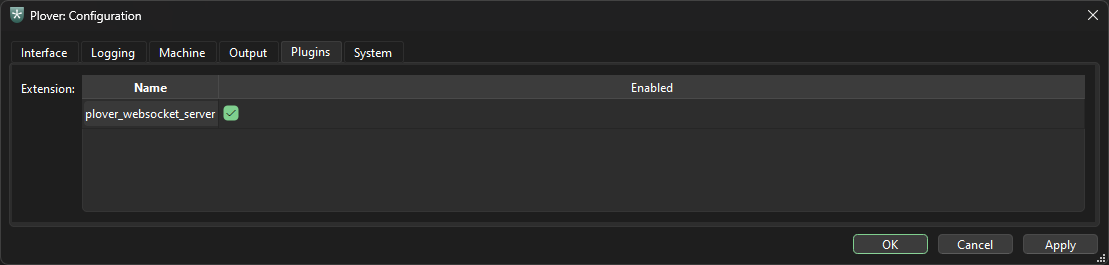
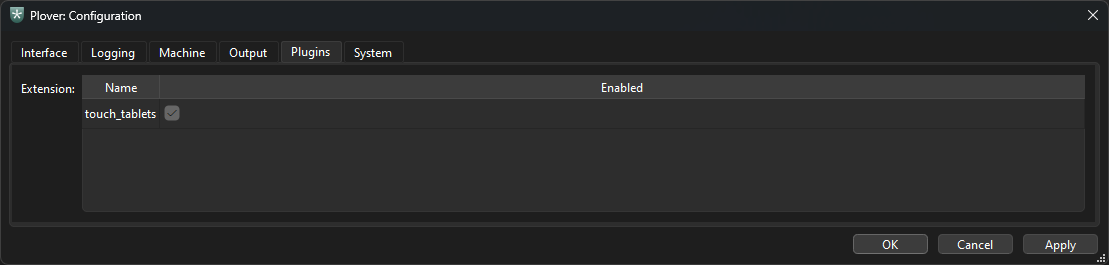
:memo: Update README to reflect new functionality.

diff --git a/README.md b/README.md
@@ -1,12 +1,12 @@
 # Touchscreen Stenography Keyboard
 
-[![Netlify Status](https://api.netlify.com/api/v1/badges/2bf602f1-52ec-4611-8b73-bce4dd90a99b/deploy-status)](https://app.netlify.com/sites/touch-stenography-keyboard/deploys)
-![GitHub License](https://img.shields.io/github/license/CosmicDNA/touchscreen-stenography-keyboard)
-[![DeepScan grade](https://deepscan.io/api/teams/23301/projects/26581/branches/848067/badge/grade.svg)](https://deepscan.io/dashboard#view=project&tid=23301&pid=26581&bid=848067)
+![Vercel Deploy](https://deploy-badge.vercel.app/vercel/touch-steno-keyboard)
+![GitHub License](https://img.shields.io/github/license/CosmicDNA/touch-steno-keyboard)
+[![DeepScan grade](https://deepscan.io/api/teams/23301/projects/31036/branches/1003311/badge/grade.svg)](https://deepscan.io/dashboard#view=project&tid=23301&pid=31036&bid=1003311)
 
 ## Repository
 
-This code repository is hosted at https://github.com/CosmicDNA/touchscreen-stenography-keyboard
+This code repository is hosted at https://github.com/CosmicDNA/touch-steno-keyboard
 
 ## Purpose of The Project
 
@@ -14,20 +14,17 @@ The aim of this project is to render with React Three Fiber a usefull stenograph
 
 This is a cross-platform touchscreen stenography keyboard built in React, making it a web-based solution that can run on any device with a touchscreen and a browser (Android, iOS, Windows tablets, etc.).
 
-> [!TIP]
-> To use this keyboard on a separate device like a tablet, the computer running Plover must be accessible from the internet. See the [Advanced Usage: Connecting from the Web](#advanced-usage-connecting-from-the-web) section for detailed instructions on how to set this up.
-
 The idea is to provide a secure, highly accessible, zero-cost practice tool that people can use anywhere. It outputs steno strokes that can be picked up by Plover (via the WebSocket connection).
 
 ## Deployed Application
 
-The application was deployed to Netlify and is available at:
+The application was deployed to Vercel and is available at:
 
-https://stenography.cosmicdna.co.uk
+https://touch.stenography.cosmicdna.co.uk
 
 ## How It Works
 
-This application functions as a web-based stenography keyboard that securely connects to the [Plover](https://github.com/openstenoproject/plover) stenography engine. It uses the [plover-websocket-server](https://github.com/CosmicDNA/plover-websocket-server) plugin to establish a secure, encrypted connection, allowing you to send steno strokes from your browser to Plover running on any machine.
+This application functions as a web-based stenography keyboard that securely connects to the [Plover](https://github.com/openstenoproject/plover) stenography engine. It uses a [Cloudflare worker](https://github.com/CosmicDNA/plover-websocket-relay) to establish a secure, encrypted connection via durable objects, allowing you to send steno strokes from your browser to Plover running on any machine.
 
 ![Plover way](assets/20240413_151518.png)
 *Plover way in Cornish*
@@ -36,14 +33,20 @@ This application functions as a web-based stenography keyboard that securely con
 
 Follow these steps to connect the web keyboard to Plover.
 
-### Step 1: Install and Configure the Plover Plugin
+### Step 1: Install and Configure the Touch Tablets Plover Plugin
 
-1.  **Install the Plugin**: The recommended way to install `plover-websocket-server` is through Plover's built-in Plugin Manager.
+<!-- 1.  **Install the Plugin**: The recommended way to install [touch-tablets plugin](https://github.com/CosmicDNA/touch-tablets) is through Plover's built-in Plugin Manager.
     -   In Plover, go to **Tools -> Plugins Manager**.
-    -   Find and select **plover-websocket-server**.
-    -   Click **Install/Update**, and then **Restart** Plover.
+    -   Find and select **steno-tablets**.
+    -   Click **Install/Update**, and then **Restart** Plover. -->
 
-2.  **Enable the WebSocket Server Plugin**:
+1.  **Install the Plugin**: To install the plugin use the `plover_console` command from within your Plover installation folder as follows:
+
+```PowerShell
+.\plover_console -s plover_plugins install git+https://github.com/CosmicDNA/touch-tablets.git
+```
+
+2.  **Enable the Steno Tablets Plugin**:
     -   In Plover's main window, click the **Configure** button (the gear icon).
     -   Go to the **Plugins** tab.
     -   Makse sure the *Enabled* check box is ticked as per the following image.
@@ -51,15 +54,44 @@ Follow these steps to connect the web keyboard to Plover.
 
 <p align="center">
   <a href="assets/Plover enabled plugin.png">
-    <img src="assets/Plover enabled plugin.png" alt="Enabled Websocket Server Plugin" />
+    <img src="assets/Plover enabled plugin.png" alt="Enabled Steno Tables Plugin" />
   </a>
   <br/>
   <em>Enabled Websocket Server Plugin</em>
 </p>
 
-### Step 2: Configure the Web Keyboard
+### Step 2: Open Tablet QR Tool
 
-Open the web keyboard application and click the settings icon. Ensure the configuration matches your Plover WebSocket server settings. The default values are shown below.
+From Plover's tools, open the Tablet QR by clicking on the tool with the Plover logo as indicated:
+
+<p align="center">
+  <a href="assets/Tablet QR Tool.png">
+    <img src="assets/Tablet QR Tool.png" alt="Open Tablet Connection QR Code" />
+  </a>
+  <br/>
+  <em>Open Tablet Connection QR Code</em>
+</p>
+
+### Step 3: Scan the QR code with the Tablet's camera
+
+With your tablet, scan the QR code to open up the touch keyboard application. Here is an example QR code for the connection.
+
+<p align="center">
+  <a href="assets/Tablet Connection QR Code.png">
+    <img src="assets/Tablet Connection QR Code.png" alt="Tablet QR Code Window" width="300"/>
+  </a>
+  <br/>
+  <em>Tablet QR Code Window</em>
+</p>
+
+> [!TIP]
+> You can connect 2 tablets to form a split setup. Everytime a new tablet is connected, the QR code is updated.
+
+
+
+### Step 4: Configure the Web Keyboard
+
+Open the web keyboard application in the connected tablet(s) and click the settings icon. The default values are shown below.
 
 <p align="center">
   <a href="assets/Configure web-socket connection.png">
@@ -69,7 +101,7 @@ Open the web keyboard application and click the settings icon. Ensure the config
   <em>App configuration window</em>
 </p>
 
-### Keyboard Controls Explained
+#### Keyboard Controls Explained
 
 Within the "Keyboard" controls panel, you'll find several options to customize your experience:
 
@@ -86,17 +118,6 @@ Within the "Keyboard" controls panel, you'll find several options to customize y
 -   **showShadows**: This option enables or disables the soft contact shadows beneath the keyboard. Disabling shadows can improve performance on less powerful devices, but will make the scene look less realistic.
 
 
-### Step 3: Connect and Approve
-
-Once configured, the web app will attempt to connect to Plover. A dialog will appear on the machine running Plover, asking you to approve the connection.
-
-<p align="center">
-  <img src="assets/Accept incoming connection.png" alt="Plover connection approval dialog" />
-  <br/>
-  <em>Plover connection approval dialog</em>
-</p>
-
-
 ## Usage Example
 
 Once connected, you can begin typing on the touchscreen keyboard. The video below demonstrates the keyboard in action.
@@ -104,82 +125,6 @@ Once connected, you can begin typing on the touchscreen keyboard. The video belo
 https://github.com/CosmicDNA/touchscreen-stenography-keyboard/assets/92752640/c5960847-21dc-412f-a4d8-af9af335dbce
 
 *Usage example for typing*
-
-## Advanced Usage: Connecting from the Web
-
-You can connect to a Plover instance running on your local machine (e.g., at home) from anywhere on the internet. This is useful if you want to use this web keyboard on a mobile device while your main computer with Plover is elsewhere.
-
-To achieve this, you need to expose your local Plover WebSocket server to the internet via a public hostname. There are several ways to do this, including:
-
--   **Tunneling Services**: Tools like Cloudflare Tunnel (`cloudflared`) or ngrok create a secure tunnel from a public URL to your local machine. This is often the easiest and most secure method as it doesn't require opening ports on your router.
--   **Dynamic DNS (DDNS)**: If your home IP address changes, a DDNS service can give you a permanent hostname that always points to your current IP. This approach requires you to configure port forwarding on your router to direct traffic from the internet to the Plover WebSocket port (`8086` by default) on your local machine.
-
-Below is a detailed example using Cloudflare Tunnel.
-
-### Example: Using Cloudflare Tunnel (`cloudflared`)
-
-There are two main ways to use `cloudflared`:
-
-#### Method 1: Quick Tunnel (for Temporary Testing)
-
-This is the fastest way to get a public URL, but the URL will change each time you start the tunnel.
-
-1.  **Install `cloudflared`**: Follow the official installation instructions for your operating system.
-
-2.  **Start the tunnel**: Run the following command in your terminal. This assumes Plover is running on the default port `8086`.
-    ```shell
-    cloudflared tunnel --url localhost:8086
-    ```
-
-3.  **Use the public URL**: `cloudflared` will give you a public URL (e.g., `https://random-words.trycloudflare.com`). In the web keyboard's configuration, enter this hostname (e.g., `random-words.trycloudflare.com`) and check the **TLS** box.
-
-#### Method 2: Named Tunnel (for Permanent Use)
-
-This method provides a stable, permanent public URL and is the recommended approach for regular use. It requires you to have a domain managed by Cloudflare.
-
-1.  **Install and Authenticate `cloudflared`**: Follow the official guides to install and log in.
-
-2.  **Create a Tunnel**: Give your tunnel a memorable name.
-    ```shell
-    cloudflared tunnel create plover-tunnel
-    ```
-
-3.  **Route Traffic**: Link your tunnel to a public hostname (e.g., `plover.yourdomain.com`) that points to your local Plover service.
-    ```shell
-    cloudflared tunnel route dns plover-tunnel plover.yourdomain.com
-    ```
-
-4.  **Run the Tunnel**: Start the tunnel. It will now listen for requests at `plover.yourdomain.com` and forward them to your local Plover instance.
-    ```shell
-    cloudflared tunnel run --url localhost:8086 plover-tunnel
-    ```
-
-5.  **Configure the Web Keyboard**: In the app's settings, enter your permanent hostname (`plover.yourdomain.com`) as the `WebSocket URL` and check the **TLS** box.
-
-### Example: Using Dynamic DNS (DDNS)
-
-This method gives you a persistent hostname that points to your home network's IP address. It requires you to configure port forwarding on your router.
-
-1.  **Sign up with a DDNS Provider**: Choose a service like No-IP or DuckDNS and create a hostname (e.g., `my-plover.ddns.net`).
-
-2.  **Set Up the DDNS Client**: Install the provider's update client on your computer or configure the DDNS service directly in your router's settings. This ensures your hostname always points to your current IP address.
-
-3.  **Configure Port Forwarding**: This is a critical step.
-    -   Log in to your router's administration page.
-    -   Find the "Port Forwarding" or "Virtual Server" section.
-    -   Create a new rule to forward incoming TCP traffic from an external port (e.g., `8086`) to the **internal IP address** of the computer running Plover on port `8086`.
-
-4.  **Configure the Web Keyboard**:
-    -   In the app's settings, enter your DDNS hostname (e.g., `my-plover.ddns.net`) as the `WebSocket URL`.
-    -   Set the `Port` to the external port you configured in your router (e.g., `8086`).
-    -   **Important**: Ensure the **TLS** box is **unchecked**, as this direct connection is not encrypted.
-
-> [!WARNING]
-> The standard DDNS and port forwarding method described above creates an insecure (`ws://`) connection. For a secure (`wss://`) connection, you would need to set up a reverse proxy (like Nginx or Caddy) with a valid TLS certificate. This is an advanced configuration and is beyond the scope of this guide. For most users, a tunneling service like `cloudflared` is the recommended and more secure option for remote access.
-
-
-
-
 
 
 ## Development
@@ -207,21 +152,7 @@ yarn global add serve
 NODENV=production && serve -s build
 ```
 
-## Additional Configuration
-
-To use the plugin with the [deployed frontend](https://stenography.cosmicdna.co.uk) and follow the [plover-websocket-server](https://github.com/CosmicDNA/plover-websocket-server) guidelines, ensure your `plover_websocket_server_config.json` file includes the frontend URL in the remotes pattern section. You can use, for example, a remotes pattern that includes both `localhost:8086` and `stenography.cosmicdna.co.uk`:
-
-```json
-{
-  "remotes": [
-    {
-      "pattern": "^https?://(localhost(:[0-9]*)?|stenography\\.cosmicdna\\.co\\.uk)/?$"
-    }
-  ]
-}
-```
-
 ## Powered by
 
 [![React](https://img.shields.io/badge/React-20232A?style=for-the-badge&logo=react&logoColor=61DAFB)](https://react.dev/)
-[![Netlify](https://img.shields.io/badge/Netlify-00C7B7?style=for-the-badge&logo=netlify&logoColor=white)](https://www.netlify.com/)
+![Vercel Deploy](https://img.shields.io/badge/vercel-repo?logo=vercel&color=black&style=for-the-badge)
